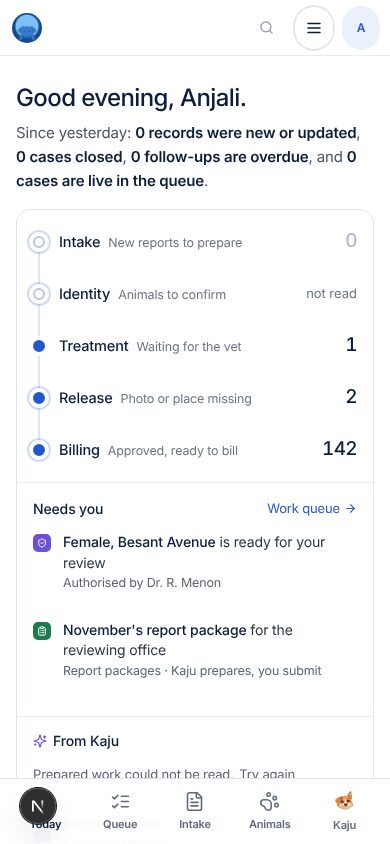
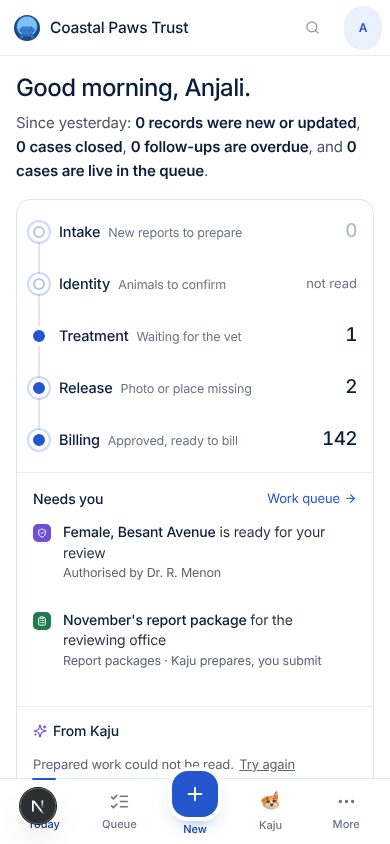
Landing motion, remaining sheets, notes
Landing: the headline's last line is underlined by the record line,
Kaju lands on the product window, the window leans toward the pointer,
and each framed chapter settles into place tied to the scroll. Intake,
report packages and reports & proof use the sheet language. Phone
filters on reports sit two to a row. The sign-in code field keeps a
real white ground over its cells. DESIGN.md and docs/sp5 updated with
the entry, phone and first-run rules and new screenshots.

Claude-Session: https://claude.ai/code/session_015XZZNApuvadXvoS844YZf5

diff --git a/src/sp5/home/home5.css b/src/sp5/home/home5.css
@@ -136,7 +136,7 @@
 @media (min-width: 900px) and (prefers-reduced-motion: no-preference) {
   /* The window leans back as the page opens and comes upright as it takes the screen. */
   .s8-home .s6-hero .s6-canvas { perspective: 1800px; }
-  .s8-home .s6-hero .s6-stage { transform: rotateX(calc(9deg * (1 - var(--hp, 0)))) translateY(calc(-10px * var(--hp, 0))); transform-origin: 50% 100%; transition: transform 80ms linear; will-change: transform; }
+  .s8-home .s6-hero .s6-stage { transform: rotateX(calc(9deg * (1 - var(--hp, 0)) + var(--ry, 0deg))) rotateY(var(--rx, 0deg)) translateY(calc(-10px * var(--hp, 0))); transform-origin: 50% 100%; transition: transform 260ms cubic-bezier(.2, .7, .2, 1); will-change: transform; }
 }
 .s8-roles li:nth-child(2) { --i: 1; } .s8-roles li:nth-child(3) { --i: 2; } .s8-roles li:nth-child(4) { --i: 3; }
 
@@ -261,3 +261,38 @@
 /* The same frame for the problem and the pilot, so every chapter is the same kind of object. */
 .s8-pb-from li { border-color: var(--s8-frame); }
 .s8-pl { border: 1px solid var(--s8-frame); border-radius: var(--s8-r); background: var(--s8-ground); }
+
+/* ════════════════════════════════════════════════════════════════════
+   Motion pass (10 Nov). Three kinds, each with a job:
+   · arrival   the headline's last line is underlined by the record line
+   · reading   every framed chapter settles into place as it enters the
+               screen, tied to the scroll itself (CSS view timelines where
+               the browser has them; the existing one-shot rise elsewhere)
+   · touch     the hero window leans toward the pointer (HeroTilt)
+   Nothing here runs under prefers-reduced-motion.
+   ════════════════════════════════════════════════════════════════════ */
+.s8-home .s6-hero .s8-h1-b { position: relative; display: inline-block; }
+.s8-home .s6-hero .s8-h1-b::after { content: ""; position: absolute; left: 0; right: 0; bottom: -0.08em; height: 0.055em; min-height: 3px; border-radius: 3px; background: currentColor; opacity: .28; transform-origin: 0 50%; }
+@media (prefers-reduced-motion: no-preference) {
+  html:has(.s8-home) { scroll-behavior: smooth; }
+  .s8-home .s6-hero .s8-h1-b::after { animation: s8-underline 900ms var(--s4-ease) 1100ms both; }
+  @keyframes s8-underline { from { transform: scaleX(0); } to { transform: scaleX(1); } }
+  /* Kaju lands on the window a beat after it arrives. */
+  .s8-home .s6-hero .s4-hero-perch { animation: s8-land 700ms cubic-bezier(.3, 1.4, .5, 1) 1300ms both; }
+  @keyframes s8-land { from { opacity: 0; translate: 0 -26px; } to { opacity: 1; translate: 0 0; } }
+  .s8-home .s4-btn { transition: background-color 160ms ease, box-shadow 200ms ease, transform 200ms var(--s4-ease); }
+  .s8-home .s4-btn.is-primary:hover { transform: translateY(-1px); box-shadow: 0 10px 22px -12px rgba(36, 87, 206, .8); }
+  .s8-home .s4-btn:active { transform: scale(.98); }
+}
+@supports (animation-timeline: view()) {
+  @media (prefers-reduced-motion: no-preference) {
+    .s8-home :is(.s8-pt-row, .s8-pb, .s8-pkg, .s8-con, .s8-board, .s8-pl, .s7-audit-win, .s7-res-row) { animation: s8-settle linear both; animation-timeline: view(); animation-range: entry 0% entry 80%; }
+    @keyframes s8-settle { from { opacity: 0; scale: .945; translate: 0 48px; } to { opacity: 1; scale: 1; translate: 0 0; } }
+    .s8-home main > section:not(.s6-hero):not(.s7-steps) :is(.s4-h2, .s8-tools-head h3) { animation: s8-title linear both; animation-timeline: view(); animation-range: entry 0% cover 28%; }
+    @keyframes s8-title { from { opacity: 0; translate: 0 28px; } to { opacity: 1; translate: 0 0; } }
+    .s8-home main > section:not(.s6-hero):not(.s7-steps) .s4-lede { animation: s8-title linear both; animation-timeline: view(); animation-range: entry 10% cover 32%; }
+    /* The hero's canvas slides away a little slower than the page: depth without a second layer. */
+    .s8-home .s6-hero .s6-canvas { animation: s8-canvas 1100ms var(--s4-ease) 380ms both, s8-leave linear both; animation-timeline: auto, view(); animation-range: normal, exit 0% exit 100%; }
+    @keyframes s8-leave { to { translate: 0 60px; opacity: .55; } }
+  }
+}

diff --git a/src/sp/shell/app4.css b/src/sp/shell/app4.css
@@ -843,3 +843,32 @@ html .sp.sx3 .sp-main :is(.chip[aria-pressed="true"], .chip[aria-checked="true"]
   .sp.sx3 .sx3-tabs { padding-top: 6px; }
 }
 @media (prefers-reduced-motion: reduce) { .sp.sx3 .sx6-tabs *, .sp.sx3 .sx6-tabs *::before { transition: none !important; } }
+
+/* 7d · Intake, report packages and reports & proof in the same sheet:
+       one hairline frame, parts split by hairlines, nothing boxed twice. */
+@media (min-width: 861px) {
+  .sp.sx3 .ib .ib-grid { margin-top: 20px; border: 1px solid #dfe5f1; border-radius: 16px; background: #fff; overflow: hidden; min-height: calc(100dvh - var(--bar) - 190px); }
+  .sp.sx3 .ib .ib-grid > :first-child { padding: 16px 12px; border-right: 1px solid #e9edf5; background: #fafbfe; }
+  .sp.sx3 .ib .ib-grid > :nth-child(n + 2) { padding: 20px; }
+  .sp.sx3 .ib .ib-grid > :nth-child(3) { border-left: 1px solid #e9edf5; }
+  .sp.sx3 .ib .ib-ch.is-on { background: #eef3fd; }
+}
+.sp.sx3 .ib .wi { box-shadow: none; border: 1px solid #e4e8f0; border-radius: 14px; overflow: hidden; }
+.sp.sx3 .ngo-page.abc > .ms { margin-top: 20px; padding: 20px 24px; border: 1px solid #dfe5f1; border-radius: 16px; background: #fff; animation: none; }
+.sp.sx3 .ngo-page.abc > .abc-empty, .sp.sx3 .ngo-page.abc > .state { margin-top: 16px; border: 1px dashed #d3dbec; border-radius: 16px; background: #fff; }
+.sp.sx3 .ngo-page.abc > .abc-list:not(.abc-stages + .abc-list) { border: 1px solid #dfe5f1; border-radius: 16px; background: #fff; overflow: hidden; }
+.sp.sx3 .ngo-page.abc > .abc-list:not(.abc-stages + .abc-list) > li > a { padding: 14px 20px; }
+.sp.sx3 .ngo-page.abc > .abc-list:not(.abc-stages + .abc-list) > li:last-child > a { border-bottom: 0; }
+.sp.sx3 .pf-scope { margin-top: 20px; border: 1px solid #dfe5f1; border-radius: 16px 16px 0 0; background: #fafbfe; }
+.sp.sx3 .pf-shelf { border: 1px solid #dfe5f1; border-top: 0; border-radius: 0 0 16px 16px; background: #fff; overflow: hidden; }
+@media (max-width: 860px) {
+  .sp.sx3 .ngo-page.abc > .ms { padding: 16px; border-radius: 14px; }
+  .sp.sx3 .pf-scope { border-radius: 14px 14px 0 0; } .sp.sx3 .pf-shelf { border-radius: 0 0 14px 14px; }
+}
+@media (max-width: 860px) {
+  .sp.sx3 .ib :is(select, .select) { width: 100%; max-width: 100%; box-sizing: border-box; }
+  .sp.sx3 .ib .field { min-width: 0; max-width: 100%; }
+  .sp.sx3 .pf-controls { display: grid; grid-template-columns: 1fr 1fr; gap: 10px 12px; }
+  .sp.sx3 .pf-controls > :first-child { grid-column: 1 / -1; }
+  .sp.sx3 .pf-scope { gap: 12px; padding-top: 18px; padding-bottom: 18px; }
+}

diff --git a/src/sp5/entry/entry5.css b/src/sp5/entry/entry5.css
@@ -19,8 +19,9 @@
 .s9-cells span { border: 1px solid #d3dbec; border-radius: 12px; background: #fff; transition: border-color 160ms ease, box-shadow 200ms ease, background-color 160ms ease; }
 .s9-cells span.is-full { border-color: #9fb3e2; background: #f5f8fe; }
 .s9-code:focus-within .s9-cells span.is-next { border-color: var(--s4-blue); box-shadow: 0 0 0 3px rgba(36, 87, 206, .15); }
-/* The input sits over the cells: monospaced so each character lands in its own cell. */
-.s4l.s9 .s9-code .s4l-input.is-code { position: absolute; inset: 0; width: 100%; height: 100%; padding: 0; border: 0; border-radius: 12px; background: transparent; box-shadow: none; font-family: ui-monospace, "SF Mono", Menlo, Consolas, monospace; font-size: 22px; font-weight: 500; text-transform: uppercase;
+/* The input sits over the cells: monospaced so each character lands in its own cell. Its ground is white and
+   multiplied onto the cells, so the cells show through while the field keeps a real, readable background. */
+.s4l.s9 .s9-code .s4l-input.is-code { position: absolute; inset: 0; width: 100%; height: 100%; padding: 0; border: 0; border-radius: 12px; background: #fff; mix-blend-mode: multiply; box-shadow: none; font-family: ui-monospace, "SF Mono", Menlo, Consolas, monospace; font-size: 22px; font-weight: 500; text-transform: uppercase;
   --cell: calc((100% - 40px) / 6); letter-spacing: calc((min(420px, 100vw - 40px) - 40px) / 6 + 8px - 1ch); padding-left: calc(((min(420px, 100vw - 40px) - 40px) / 6 - 1ch) / 2); caret-color: var(--s4-blue); overflow: hidden; }
 .s4l.s9 .s9-code .s4l-input.is-code:focus { box-shadow: none; }
 .s4l.s9 .s4l-hint { margin: 0; font-size: 13px; color: var(--s4-mute); }

diff --git a/src/sp5/home/HeroTilt.tsx b/src/sp5/home/HeroTilt.tsx
@@ -1,0 +1,24 @@
+"use client";
+
+/* The hero's product window leans a few degrees toward the pointer, the
+   way a card does in the hand. Fine pointers only, never under reduced
+   motion, one frame at most per move; it settles back when the pointer
+   leaves. Sets --rx / --ry on the hero; CSS does the rest. */
+
+import { useEffect, useRef } from "react";
+
+export function HeroTilt() {
+  const ref = useRef<HTMLSpanElement>(null);
+  useEffect(() => {
+    const hero = ref.current?.closest<HTMLElement>(".s6-hero"); const canvas = hero?.querySelector<HTMLElement>(".s6-canvas");
+    if (!hero || !canvas) return;
+    if (window.matchMedia("(prefers-reduced-motion: reduce)").matches || !window.matchMedia("(pointer: fine)").matches || window.innerWidth < 900) return;
+    let raf = 0, x = 0, y = 0;
+    const paint = () => { raf = 0; hero.style.setProperty("--rx", `${(x * 3).toFixed(2)}deg`); hero.style.setProperty("--ry", `${(-y * 2).toFixed(2)}deg`); };
+    const move = (e: PointerEvent) => { const r = canvas.getBoundingClientRect(); x = Math.max(-1, Math.min(1, ((e.clientX - r.left) / r.width) * 2 - 1)); y = Math.max(-1, Math.min(1, ((e.clientY - r.top) / r.height) * 2 - 1)); if (!raf) raf = requestAnimationFrame(paint); };
+    const leave = () => { x = 0; y = 0; if (!raf) raf = requestAnimationFrame(paint); };
+    canvas.addEventListener("pointermove", move, { passive: true }); canvas.addEventListener("pointerleave", leave);
+    return () => { cancelAnimationFrame(raf); canvas.removeEventListener("pointermove", move); canvas.removeEventListener("pointerleave", leave); };
+  }, []);
+  return <span ref={ref} hidden />;
+}

diff --git a/src/app/page.tsx b/src/app/page.tsx
@@ -13,6 +13,7 @@ import { CloseAndQuestions, Results } from "@/sp4/home/v7/Sections";
 import { AskUi, OvernightUi, ProposeUi } from "@/sp4/home/ui";
 import { Partners, Pilot, Problem, Sides, StatusBoard } from "@/sp5/home/Story";
 import { Spine } from "@/sp5/home/Spine";
+import { HeroTilt } from "@/sp5/home/HeroTilt";
 import { KajuConsole } from "@/sp5/home/KajuConsole";
 import { AuditTrail, HeroScroll, Reveal } from "@/sp4/home/v7/Extras";
 import "@/sp4/home/v7/landing7.css";
@@ -82,6 +83,7 @@ export default function HomePage() {
             : <><Link href="/demo" className="s4-btn is-primary">Book a demo</Link>{LIVE_DEMO_PUBLIC ? <a href={LIVE_DEMO_URL} className="s4-btn is-line">Try the live demo</a> : <Link href="#workflow" className="s4-btn is-line">See how it works</Link>}</>}</div>
           <ul className="s8-roles" aria-label="Who works in StrayPaw"><li>Field teams</li><li>Veterinarians</li><li>NGO coordinators</li><li>Municipal reviewers</li></ul>
           <HeroScroll />
+          <HeroTilt />
           <div className="s6-canvas">
             <Blueprint tone="dark" />
             <div className="s4-hero-stage s6-stage">

diff --git a/docs/sp5/REDESIGN-2026-11-09.md b/docs/sp5/REDESIGN-2026-11-09.md
@@ -94,6 +94,34 @@ Asked for a bolder, more cohesive result on the same blueprint.
 - All new motion is off under `prefers-reduced-motion`; nothing is hidden
   without JavaScript.
 
+### Third pass: entry, phone and motion (10 November)
+
+- **Sign-in** (`src/sp3/entry/SignIn.tsx`, `src/sp5/entry/`). The idea: a
+  person should recognise their own place before typing. One column says
+  "Welcome back", takes the email and a six-cell access code, and offers
+  three plain doors (first time, lost code, new organisation). Beside it,
+  the record line names the four roles instead of a rotating news panel.
+  Authentication is unchanged (same email-and-code call); join and access
+  share the frame.
+- **First-time welcome** (`src/sp5/app/FirstRun.tsx`). The first time a
+  person opens a workspace on a device, one sheet names their organisation
+  and role and lists their three jobs in order, each a link to the real
+  page: coordinator/admin, veterinarian, field member and municipal
+  reviewer each get their own. It stores one browser note, reads nothing
+  and grants nothing. Reopen from the account menu ("Welcome guide"). It
+  does not show on the guided demo.
+- **Phone shell.** Top bar: workspace name, search, account (was five
+  controls). Thumb bar: at most three places, the one action (New case, or
+  Report on the public map), Kaju and More. Coordinators get Today and
+  Queue; field staff Today and Field; vets Today, Sign off and Animals with
+  no add button. Every other place is a single list in More. Page titles
+  are 24px and heads are tighter.
+- **Landing motion.** The headline's last line is underlined by the record
+  line; Kaju lands on the product window; the window leans toward the
+  pointer; every framed chapter settles into place tied to the scroll (CSS
+  view timelines where supported, the earlier one-shot rise elsewhere).
+- **Intake, report packages, reports & proof** now use the sheet language.
+
 ## Navigation architecture (unchanged in structure, unified in naming)
 
 The registry in `src/sp/shell/workspaces.ts` stays the single source. Routes,
@@ -110,8 +138,9 @@ role rules, flags and deep links are untouched.
   Reports & proof, Evidence files)
 - Team: Team, Settings, Connections, Workflow policies (by role)
 - Kaju: Ask Kaju
-- Phone: Today · Queue · Intake · Animals · Kaju; vets and field staff keep
-  their own four.
+- Phone: Today · Queue · New case · Kaju · More (coordinators and admins);
+  Today · Field · New case · Kaju · More (field); Today · Sign off · Animals ·
+  Kaju · More (vets).
 
 **Government**
 - Overview: Overview · Wards & map
@@ -135,8 +164,8 @@ role rules, flags and deep links are untouched.
 
 ## Not done in this pass
 
-- Work queue, intake, report packages, programmes and reports & proof keep
-  the shared frame and naming but were not given the sheet treatment.
+- Work queue and programmes keep the shared frame and naming but were not
+  given the sheet treatment.
 - Animal and case detail pages could not be rendered with data locally (they
   read tables the illustrative mode does not answer), so they were not
   redesigned. They inherit the frame, top bar and sidebar changes.

diff --git a/DESIGN.md b/DESIGN.md
@@ -43,6 +43,12 @@ These replace the matching lines of 4.0 below. Evidence and reasoning:
   (hairline `#dfe5f1`, radius 16 in the app and 20 on the site, ground
   `#f5f7fb` where a product screen sits) divided by hairlines. Do not set
   related things as separate floating cards.
+- **Phone shell.** Top bar: workspace name, search, account. Thumb bar: at
+  most three places, one action, Kaju, More. Never a second menu button.
+- **Entry.** Sign-in is one column with three plain doors; the side panel
+  shows the record line and the four roles, never product news.
+- **First run.** One sheet per role with three jobs in order; once per
+  person, workspace and device; reopen from the account menu.
 - **Stat strips on a phone** are a list (label left, count right, 48px
   rows), never five squeezed tiles. An unread count says "not read" at
   text size, never at figure size.
